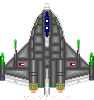
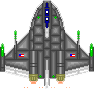
#08
-ปรับปรุงรูปลักษณ์ของศัตรู
-ปรับระดับความเร็วตามสัดส่วนของคะแนน
(add enemy image , add speed when score up every 100)

diff --git a/Enemy.java b/Enemy.java
@@ -4,19 +4,32 @@
 import java.awt.AlphaComposite;
 import java.awt.Color;
 import java.awt.Graphics2D;
+import java.io.IOException;
+import java.awt.image.BufferedImage;
 
 public class Enemy extends Shapes{
 	private int Y_TO_FADE ;
 	private int Y_TO_DIE ;
-	
-	private int step = 5;
+	private int step = 5;										//speed of enemy variable
 	private boolean alive = true;
+
+	BufferedImageLoader ePath;										//variable keep path image
+	private BufferedImage eImage = null;							//variable buffer image
 	
 	public Enemy(int x, int y, int heightScreen){
-		super(x, y, 20, 10);
+		super(x, y, 20, 30);
 		Y_TO_FADE = heightScreen - 150;
 		Y_TO_DIE = heightScreen - 50;
-		System.out.print(".");						//test class active
+		System.out.print(".");										//test class active
+
+		//load enemy image
+		ePath = new BufferedImageLoader();
+		eImage = new BufferedImage(width, height, BufferedImage.TYPE_INT_ARGB);
+		try{
+			eImage = ePath.loadImage("/images/enemy.png");
+		}catch(IOException e){
+			e.printStackTrace();
+		}
 	}
 
 	@Override
@@ -27,8 +40,9 @@ public class Enemy extends Shapes{
 			g.setComposite(AlphaComposite.getInstance(AlphaComposite.SRC_OVER, 
 					(float)(Y_TO_DIE - y)/(Y_TO_DIE - Y_TO_FADE)));
 		}
-		g.setColor(Color.RED);
-		g.fillRect(x, y, width, height);
+		//g.setColor(Color.RED);
+		//g.fillRect(x, y, width, height);
+		g.drawImage(eImage, x, y-height/2, width , height, null);		//add enemy image
 		
 	}
 
@@ -41,5 +55,13 @@ public class Enemy extends Shapes{
 	
 	public boolean isAlive(){
 		return alive;
+	}
+
+	public void setSpeed(int step){
+		this.step = step;												//set speed
+	}
+
+	public int getSpeed(){
+		return step;													//get speed
 	}
 }

diff --git a/Controls.java b/Controls.java
@@ -13,6 +13,7 @@ public class Controls implements KeyListener, Score{
 	private SpaceShip ss;	
 	private Timer timer;
 	private double gameLevel;
+	private int speedUp = 5;
 	private ArrayList<Enemy> enemies = new ArrayList<Enemy>();	
 	private long score;
 
@@ -22,7 +23,6 @@ public class Controls implements KeyListener, Score{
 		cp.shapes.add(ss);										//add SpaceShip
 		gameLevel = 0.2;
 		score = 0;
-
 		System.out.println("@ Controls Active");				//test class active
 
 		timer = new Timer(40, new ActionListener(){
@@ -55,6 +55,14 @@ public class Controls implements KeyListener, Score{
 				e_iter.remove();
 				cp.shapes.remove(e);
 				score+=5;										//Score up 5 point per time
+
+				if((score % 100 == 0) && (score != 0)){
+					speedUp += 2;								//speed up when score up == 100
+					e.setSpeed(speedUp);
+					//System.out.println(speedUp);
+					//System.out.println(e.getSpeed());
+				}
+
 				//System.out.println(score);
 			}
 
